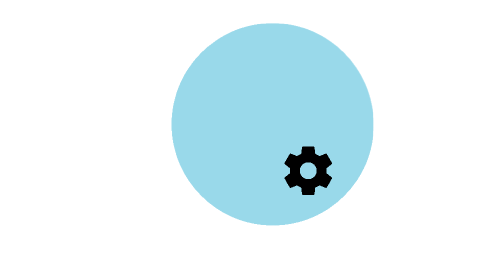
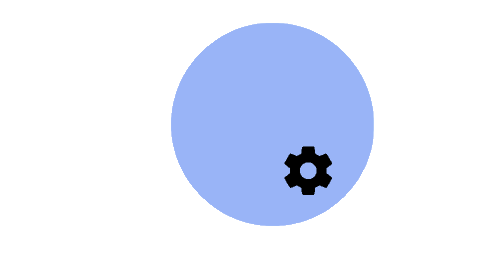
Settings button image and next button position change

Changed region(s): [[0.33, 0.0625, 0.75, 0.9062]]

diff --git a/iteration3/TremCasso/Buttons.java b/iteration3/TremCasso/Buttons.java
@@ -28,7 +28,7 @@ public class Buttons extends PApplet{
             //System.out.println("pos: " + pos);
             //System.out.println("==" + (buttonMin + this.ratio*(buttonMax-buttonMin)) + "==");
             if(this.multiplier*(int)pos < (int)this.multiplier*(buttonMin + this.ratio*(buttonMax-buttonMin))){
-                System.out.println("NOT clicking");
+                //System.out.println("NOT clicking");
                 float force = (pos-buttonMin)* increments;
                 if (orientation=='h'|| orientation=='n')
                     fEE.set(fEE.x+force, fEE.y);
